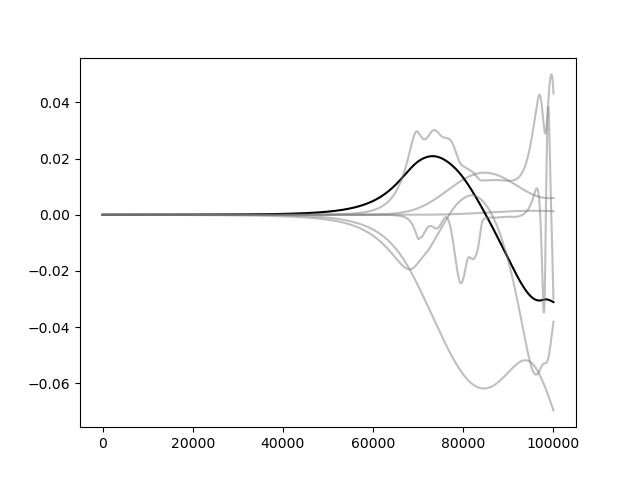
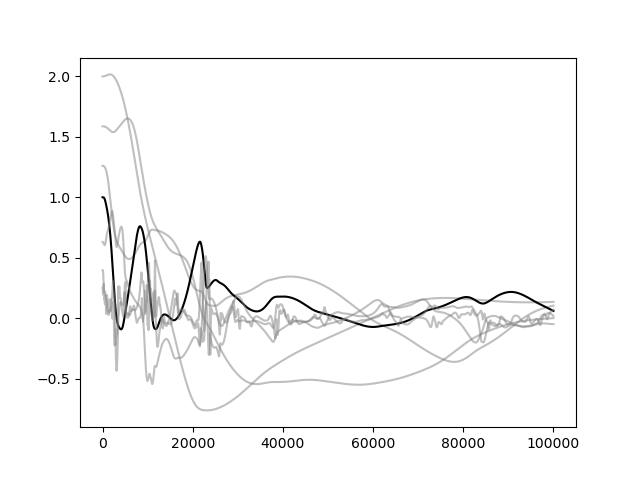
wrapper presque ok à tester avec enKF

diff --git a/KF/enKF.py b/KF/enKF.py
@@ -5,14 +5,15 @@ import matplotlib.pyplot as plt
 import tqdm
 
 sim = s.ShellModel()
-
+mes_sh = np.array([ 0.125*2.0**i for i in range(sim.N)])
+sim.set_sh(mes_sh)
 X0 = np.array([sim.sh[i]**(-1/3) 
                    for i in range(sim.N)])
-X0 *= (1 + 0.1*np.random.randn(sim.N))
+#X0 *= (1 + 0.1*np.random.randn(sim.N))
 Y0 = np.zeros(sim.N) + 1.0e-4
 
 sim.init_custom(X0, Y0, dt=1e-5, force=0.005, force_rnd=True)
-X2, Y2, t2 = sim.run(T=1000.0, save_every=100)
+X2, Y2, t2 = sim.run(T=100.0, save_every=100)
 print(f"\nRésultat exemple 2 : shape X = {X2.shape}")
 time = np.arange(0,X2.shape[0],1)
 
